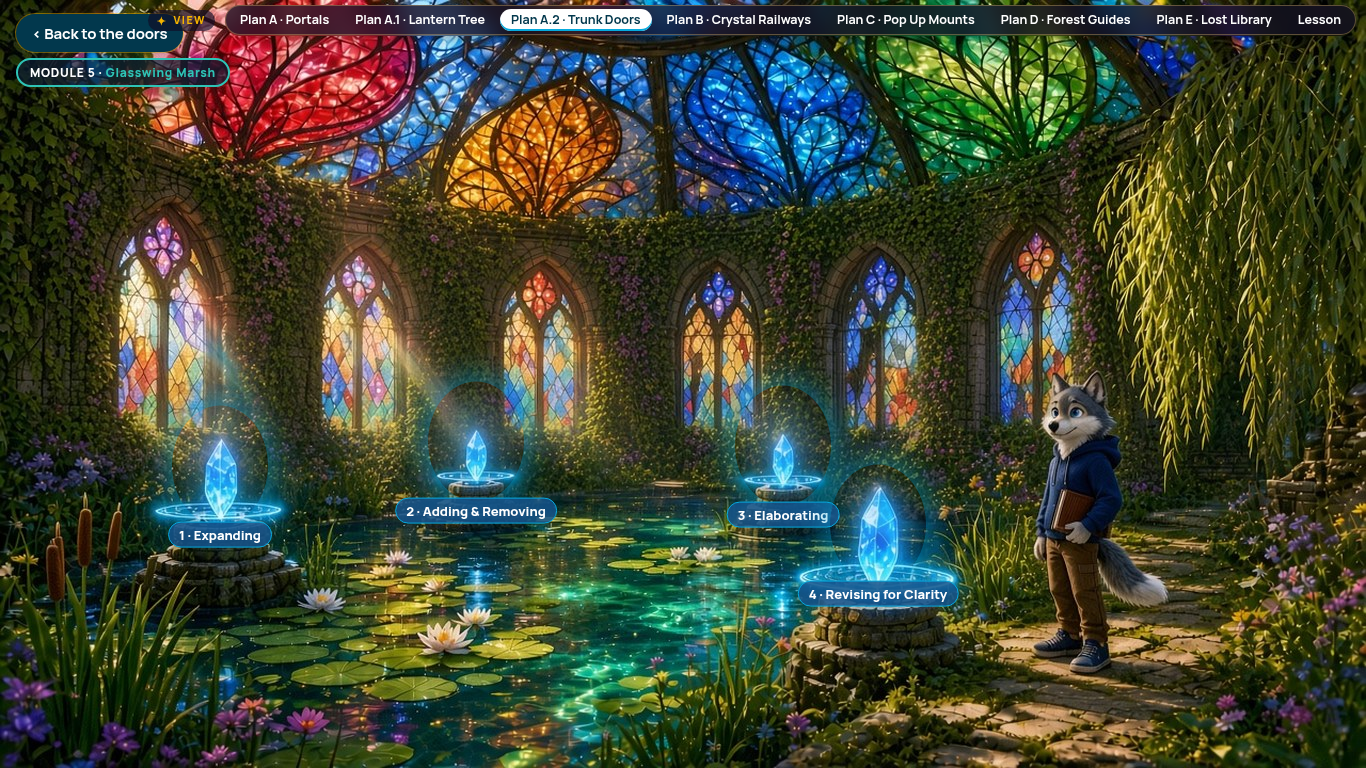
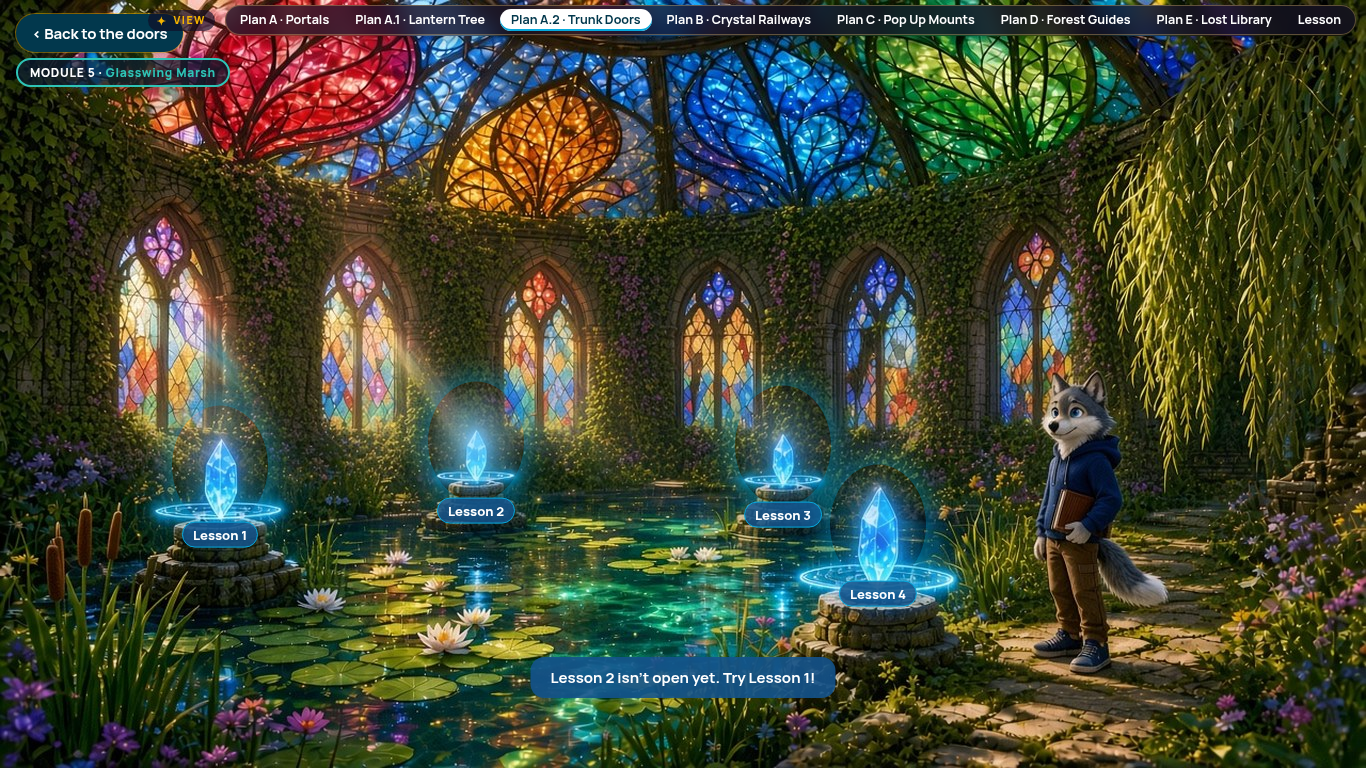
Plan A.2 worlds: plain 'Lesson N' crystal tags and matching not-open message

diff --git a/public/dashboard-a2/world.html b/public/dashboard-a2/world.html
@@ -10,11 +10,11 @@
   document.title=w.name+" · Plan A.2 · Astra's Writing Adventure"; f.style.setProperty("--c",w.color);
   var h='<a class="back" href="./?m='+w.id+'">‹ Back to the doors</a><div class="mod">MODULE '+w.m+' · <span>'+w.name+'</span></div>';
   if(w.art){ h='<img class="bg" src="'+w.art+'" alt="">'+h;
-    w.crystals.forEach(function(c,i){ h+='<a class="crystal'+(w.small?' sm':'')+'" style="left:'+c[0]+'px;top:'+c[1]+'px" href="'+(i===0?'../demo/lesson/':'#')+'" data-l="'+(i+1)+'"><span>'+(w.lessons[i]?(i+1)+' · '+w.lessons[i].replace(/&/g,'&amp;'):'Lesson '+(i+1))+'</span></a>'; });
+    w.crystals.forEach(function(c,i){ h+='<a class="crystal'+(w.small?' sm':'')+'" style="left:'+c[0]+'px;top:'+c[1]+'px" href="'+(i===0?'../demo/lesson/':'#')+'" data-l="'+(i+1)+'"><span>Lesson '+(i+1)+'</span></a>'; });
     h+='<div class="toast" id="toast"></div>';
   }
   f.innerHTML=h;
   [].forEach.call(f.querySelectorAll('.crystal[href="#"]'),function(a){ a.onclick=function(e){ e.preventDefault(); var t=document.getElementById("toast");
-    var n=w.lessons[a.dataset.l-1]; t.textContent=(n||"Lesson "+a.dataset.l)+" isn't open yet. Try Lesson 1!"; t.style.display="block"; clearTimeout(t._h); t._h=setTimeout(function(){t.style.display="none"},2200); }; });
+    t.textContent="Lesson "+a.dataset.l+" isn't open yet. Try Lesson 1!"; t.style.display="block"; clearTimeout(t._h); t._h=setTimeout(function(){t.style.display="none"},2200); }; });
 })();
 </script></body></html>
